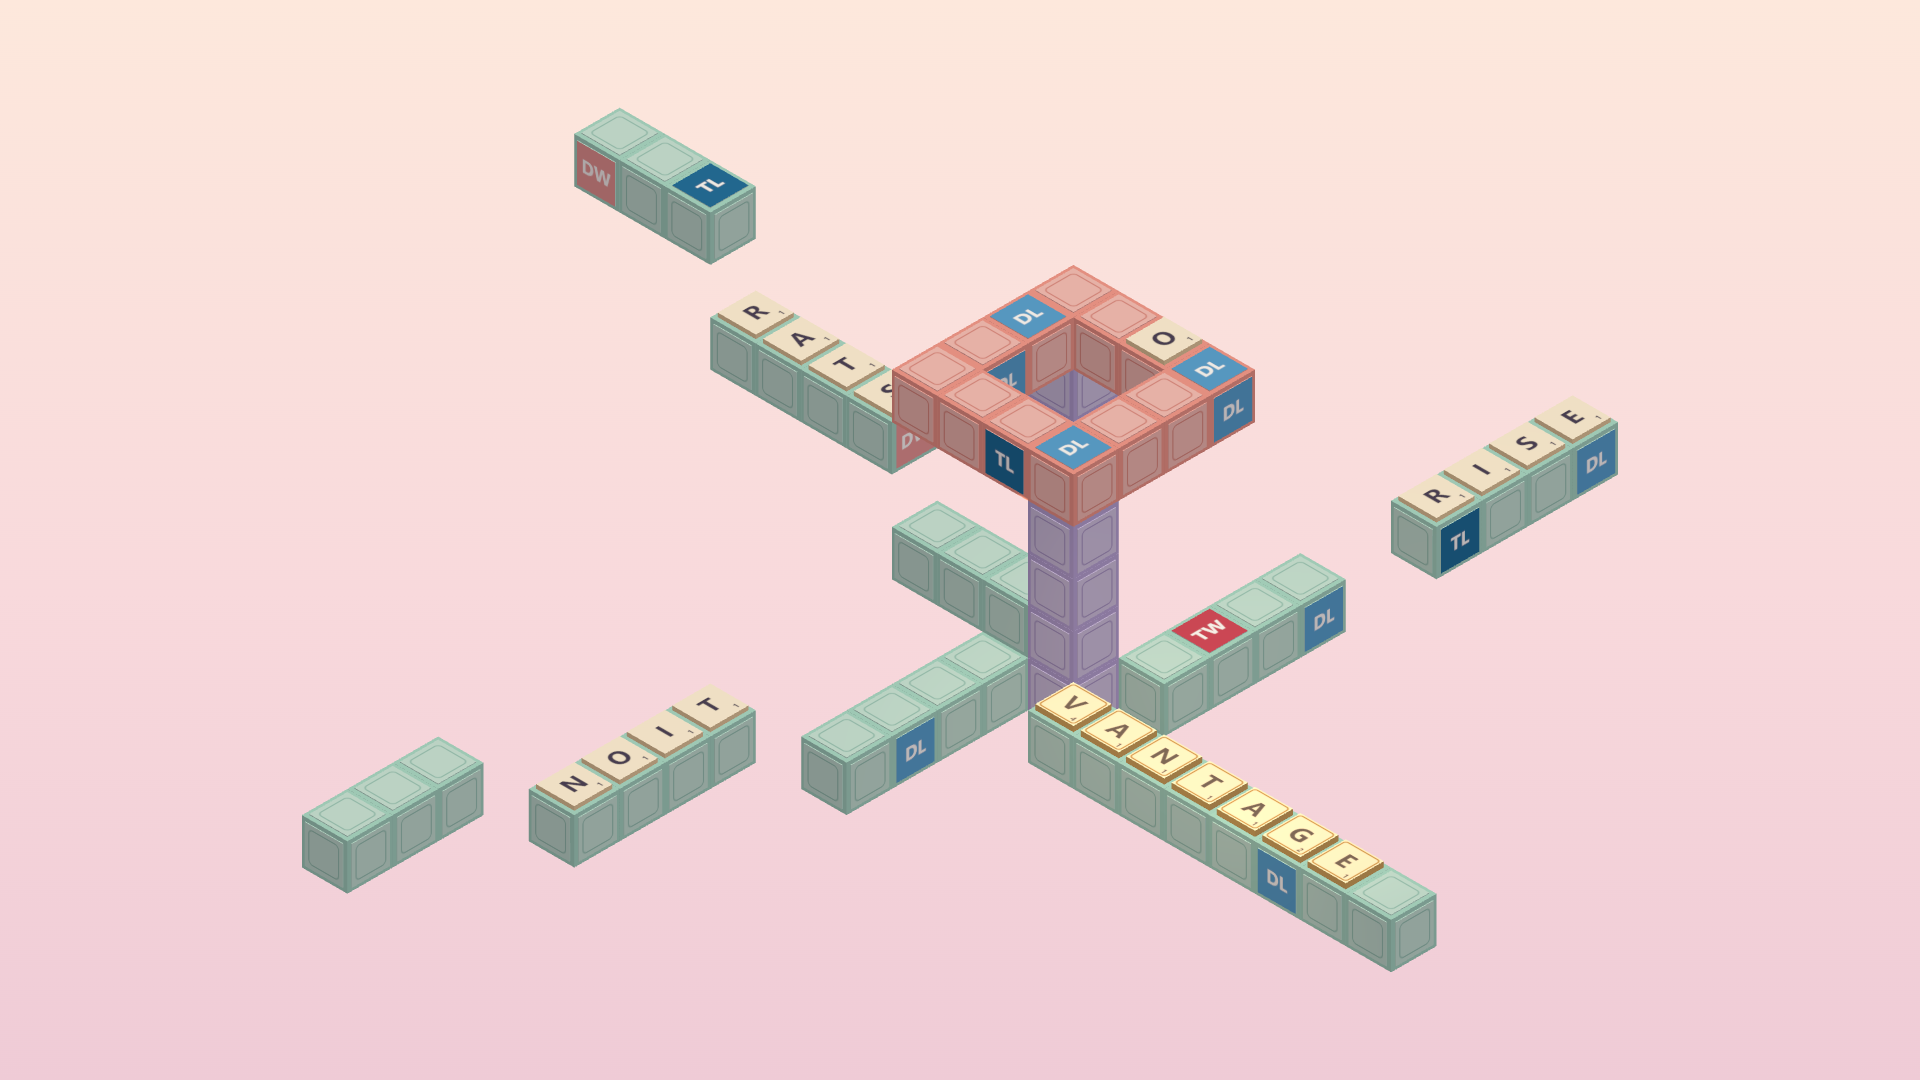
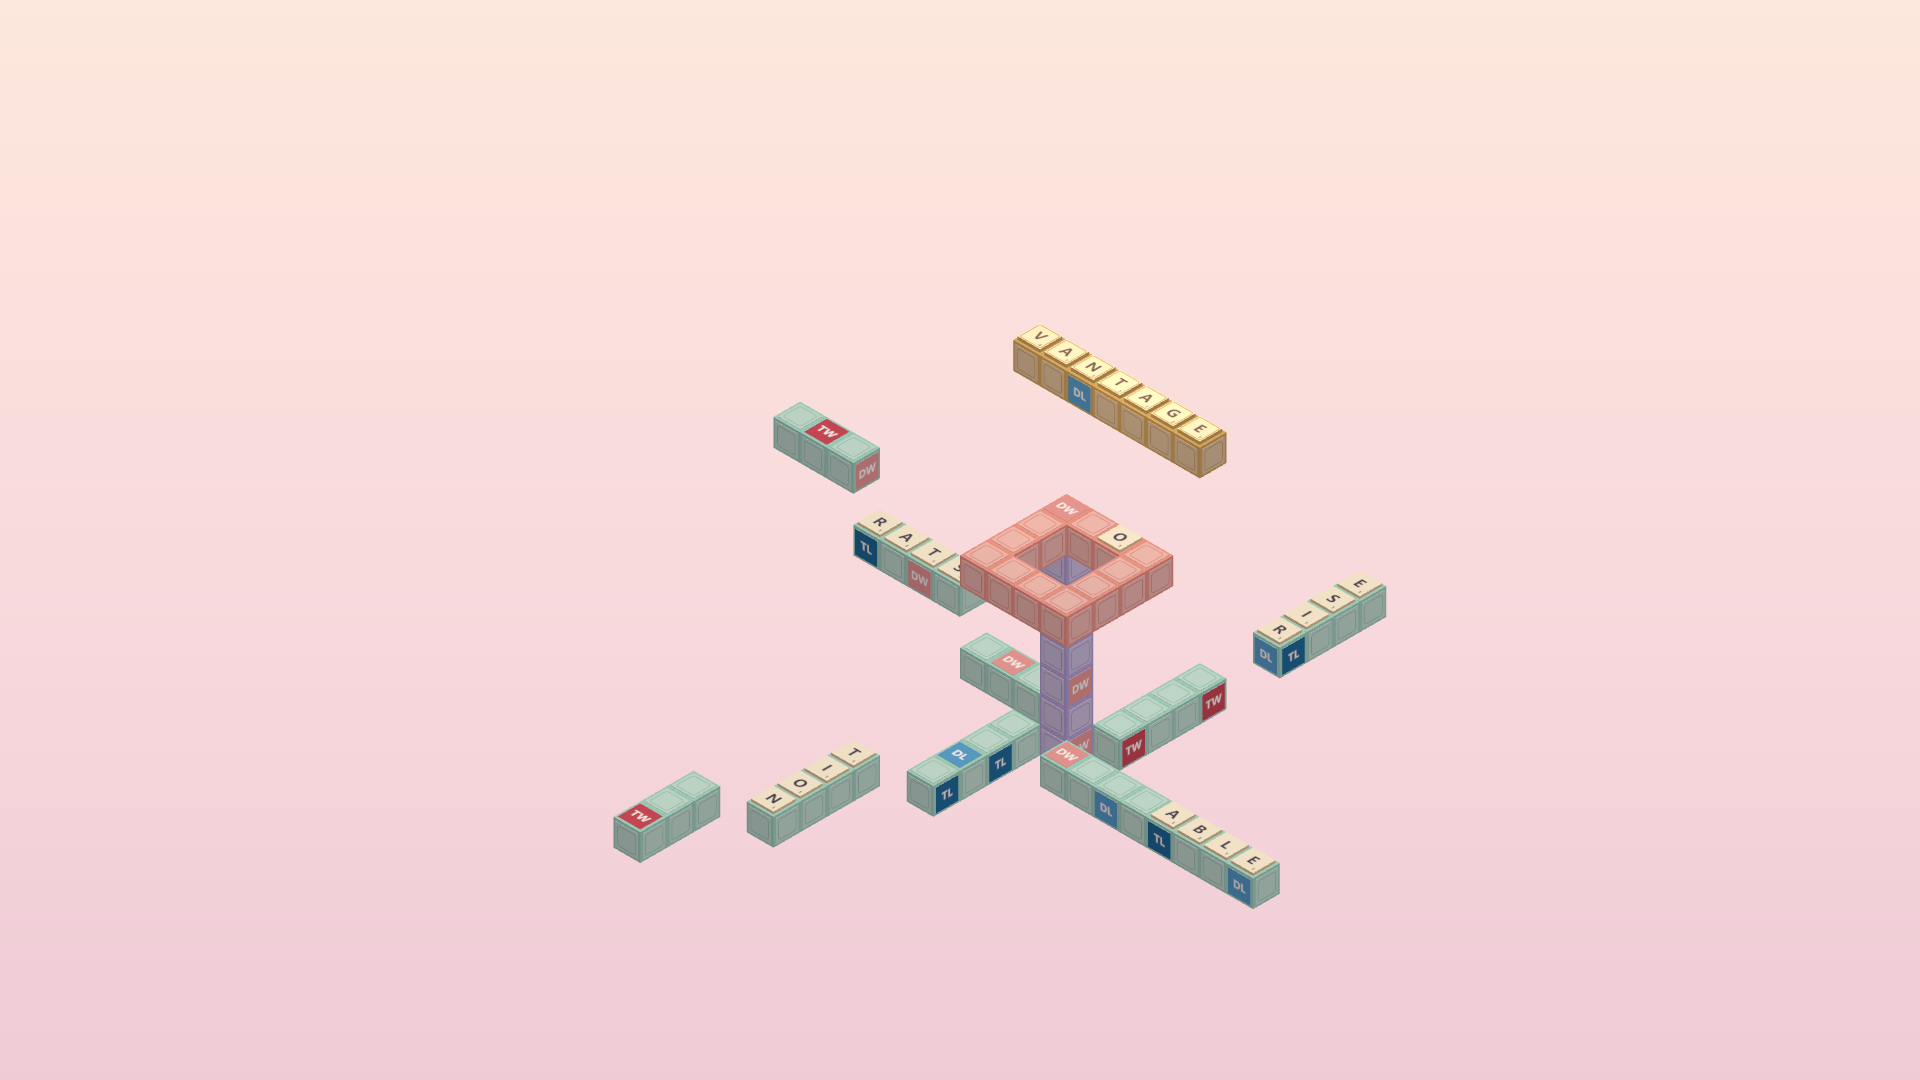
Add permanent VAN TAGE title above crown and remove thumbnail mode

Changed region(s): [[0.1562, 0.2444, 0.8438, 0.9167], [0.2812, 0.0917, 0.4062, 0.2444]]

diff --git a/src/main.js b/src/main.js
@@ -23,7 +23,7 @@ import {
 } from './game.js';
 import { createHud } from './hud.js';
 import { createLab } from './lab.js';
-import { MONUMENT, THUMBNAIL_WORD, VIEWS } from './level.js';
+import { MONUMENT, VIEWS } from './level.js';
 import { placementDirection, placementOptions } from './placement.js';
 import { BoardView } from './scene.js';
 
@@ -72,17 +72,17 @@ fill.position.set(-6, -12, -8);
 scene.add(fill);
 
 const view = new BoardView(board, scene, game.bonuses);
-for (const [key, letter] of game.letters) view.setTile(key, letter, 'fixed');
+const titleSlots = new Set(MONUMENT.words.filter((word) => word.featured).flatMap((word) =>
+  [...word.text].map((_, i) => slotKey(word.start.map((v, axis) => v + word.dir[axis] * i), word.face)),
+));
+for (const [key, letter] of game.letters) view.setTile(key, letter, titleSlots.has(key) ? 'featured' : 'fixed');
 
-const thumbnailSlots = THUMBNAIL_WORD.cells.map((cell) => slotKey(cell, THUMBNAIL_WORD.face));
-const thumbnailBlankSlots = THUMBNAIL_WORD.blankCells.map((cell) => slotKey(cell, THUMBNAIL_WORD.face));
 const spotlightTarget = new THREE.Object3D();
-for (const key of thumbnailSlots) spotlightTarget.position.add(new THREE.Vector3(...board.slots.get(key).center));
-spotlightTarget.position.divideScalar(thumbnailSlots.length);
+for (const key of titleSlots) spotlightTarget.position.add(new THREE.Vector3(...board.slots.get(key).center));
+spotlightTarget.position.divideScalar(titleSlots.size);
 const spotlight = new THREE.SpotLight('#ffe7b4', 65, 35, Math.PI / 5, 0.85);
 spotlight.position.copy(spotlightTarget.position).add(new THREE.Vector3(0, 8, 5));
 spotlight.target = spotlightTarget;
-spotlight.visible = false;
 scene.add(spotlight, spotlightTarget);
 
 const bounds = new THREE.Box3();
@@ -117,7 +117,6 @@ function resize() {
   camera.bottom = -height / 2;
   camera.updateProjectionMatrix();
   renderer.setSize(window.innerWidth, window.innerHeight);
-  if (document.body.classList.contains('thumbnail-mode')) frameThumbnail(viewDir());
 }
 resize();
 window.addEventListener('resize', resize);
@@ -146,14 +145,12 @@ let selection = null; // { chain, cursor, clicked } while placing
 let lockedDir = null;
 let snap = null;
 let revealing = false; // showing how far apart joined strips really are
-let thumbnailMode = false;
-let thumbnailReturn = null;
 let message = null;
 let messageTimer;
 // The camera is moving, a screen is over the monument or words are being
 // checked.
 const busy = () =>
-  Boolean(snap || revealing) || thumbnailMode || labOpen || mode === 'intro' || mode === 'chamber' || mode === 'checking';
+  Boolean(snap || revealing) || labOpen || mode === 'intro' || mode === 'chamber' || mode === 'checking';
 const canLook = () => !busy() && (mode === 'explore' || mode === 'over');
 
 const hud = createHud({
@@ -199,19 +196,12 @@ let wasJoined = false;
 function refresh() {
   if (mode !== 'placing' && mode !== 'checking' && !revealing) current = chainsForView(board, viewDir(), undefined, true);
   view.orientLetters(camera);
-  if (thumbnailMode) {
-    // Keep the name's letters on one baseline as the two strips line up.
-    for (const key of thumbnailSlots) view.orient(view.tiles.get(key), new THREE.Vector3(1, 0, 0));
-  }
   // A chime as strips come together.
   const joinedNow = current.chains.some(isJoined);
   if (joinedNow && !wasJoined && (mode === 'explore' || mode === 'over') && !revealing) sound.snap();
   wasJoined = joinedNow;
 
-  const highlights = new Map();
-  if (thumbnailMode) {
-    for (const key of thumbnailSlots) highlights.set(key, 'spotlight');
-  }
+  const highlights = new Map([...titleSlots].map((key) => [key, 'spotlight']));
   if (selection) {
     for (const key of selection.chain.slots) highlights.set(key, 'selected');
     const cursor = selection.chain.slots[selection.cursor];
@@ -309,7 +299,6 @@ function renderHud() {
     message,
   });
   document.getElementById('lab-open').disabled = !canLook();
-  document.getElementById('thumbnail').disabled = !canLook();
 }
 
 // The compass: every view direction seen from above, the centre straight down
@@ -375,7 +364,7 @@ function stepSnap(now) {
   if (t === 1) {
     const { then } = snap;
     snap = null;
-    controls.enabled = thumbnailMode || ((mode === 'explore' || mode === 'over') && !revealing);
+    controls.enabled = (mode === 'explore' || mode === 'over') && !revealing;
     then?.();
   }
   refresh();
@@ -394,66 +383,8 @@ controls.addEventListener('change', () => {
   if (!snap) refresh();
 });
 controls.addEventListener('end', () => {
-  if (dragged && (thumbnailMode || mode === 'explore')) snapIfNear();
+  if (dragged && mode === 'explore') snapIfNear();
 });
-
-function frameThumbnail(dir = THUMBNAIL_WORD.view) {
-  const { right, up } = screenBasis(normalize(dir));
-  const rightVec = new THREE.Vector3(...right);
-  const upVec = new THREE.Vector3(...up);
-  const points = board.cells.flatMap((cell) => [-0.6, 0.6].flatMap((x) =>
-    [-0.6, 0.6].flatMap((y) => [-0.6, 0.6].map((z) => new THREE.Vector3(...cell).add(new THREE.Vector3(x, y, z)))),
-  ));
-  const horizontal = points.map((point) => point.dot(rightVec));
-  const vertical = points.map((point) => point.dot(upVec));
-  const left = Math.min(...horizontal), rightEdge = Math.max(...horizontal);
-  const bottom = Math.min(...vertical), top = Math.max(...vertical);
-  const offset = camera.position.clone().sub(controls.target);
-  controls.target.copy(target)
-    .addScaledVector(rightVec, (left + rightEdge) / 2 - target.dot(rightVec))
-    .addScaledVector(upVec, (bottom + top) / 2 - target.dot(upVec));
-  camera.position.copy(controls.target).add(offset);
-  camera.zoom = 0.82 * Math.min((camera.right - camera.left) / (rightEdge - left), (camera.top - camera.bottom) / (top - bottom));
-  camera.updateProjectionMatrix();
-}
-
-function enterThumbnail() {
-  if (thumbnailMode || snap || labOpen || (mode !== 'intro' && !canLook())) return;
-  thumbnailReturn = { position: camera.position.clone(), target: controls.target.clone(), zoom: camera.zoom };
-  thumbnailMode = true;
-  THUMBNAIL_WORD.text.split('').forEach((letter, i) => view.setTile(thumbnailSlots[i], letter, 'featured'));
-  for (const key of thumbnailBlankSlots) view.setTile(key, '', 'empty');
-  spotlight.visible = true;
-  document.body.classList.add('thumbnail-mode');
-  document.getElementById('thumbnail-toolbar').hidden = false;
-  frameThumbnail();
-  animateTo(THUMBNAIL_WORD.view);
-}
-
-function exitThumbnail() {
-  if (!thumbnailMode) return;
-  thumbnailMode = false;
-  snap = null;
-  spotlight.visible = false;
-  for (const key of [...thumbnailSlots, ...thumbnailBlankSlots]) {
-    const letter = letterAt(game, key);
-    view.setTile(key, letter, letter ? 'fixed' : 'empty');
-  }
-  camera.position.copy(thumbnailReturn.position);
-  controls.target.copy(thumbnailReturn.target);
-  camera.zoom = thumbnailReturn.zoom;
-  camera.updateProjectionMatrix();
-  document.body.classList.remove('thumbnail-mode', 'clean-thumbnail');
-  document.getElementById('thumbnail-toolbar').hidden = true;
-  controls.enabled = mode === 'explore' || mode === 'over';
-  controls.update();
-  refresh();
-}
-
-document.getElementById('thumbnail').addEventListener('click', enterThumbnail);
-document.getElementById('intro-thumbnail').addEventListener('click', enterThumbnail);
-document.getElementById('thumbnail-exit').addEventListener('click', exitThumbnail);
-document.getElementById('thumbnail-align').addEventListener('click', () => thumbnailMode && !snap && animateTo(THUMBNAIL_WORD.view));
 
 // The Hyperbolic Chamber fills the rack: the better the score there, the
 // better the letters (each new tile is the best of score + 1 draws).
@@ -738,15 +669,7 @@ renderer.domElement.addEventListener('pointerup', (event) => {
 });
 
 window.addEventListener('keydown', (event) => {
-  if (event.ctrlKey || event.metaKey || event.altKey) return;
-  if (thumbnailMode) {
-    if (event.key === 'Escape') exitThumbnail();
-    else if (event.key.toLowerCase() === 'h') document.body.classList.toggle('clean-thumbnail');
-    else return;
-    event.preventDefault();
-    return;
-  }
-  if (busy()) return;
+  if (event.ctrlKey || event.metaKey || event.altKey || busy()) return;
   if (event.target.matches?.('input, textarea, select, [contenteditable="true"]')) return;
   // Enter still plays after clicking the word strip or rack; other buttons
   // keep their own Enter, and Space always presses the focused button.
@@ -869,7 +792,7 @@ renderer.setAnimationLoop((time) => {
   lastTime = time;
   // While another screen has the page, the monument behind it barely moves.
   if ((chamber.isOpen() || lab.isOpen()) && frame++ % 20) return;
-  if (mode === 'intro' && !labOpen && !thumbnailMode) {
+  if (mode === 'intro' && !labOpen) {
     // Orbit controls report the change, which refreshes the view.
     camera.position.sub(controls.target).applyAxisAngle(new THREE.Vector3(0, 1, 0), INTRO_SPIN * dt).add(controls.target);
     controls.update();
@@ -885,7 +808,6 @@ if (import.meta.env.DEV) {
     game,
     selection: () => selection,
     highlights: () => [...view.highlights.keys()],
-    thumbnail: () => thumbnailMode,
     slotOnScreen(key) {
       const point = new THREE.Vector3(...board.slots.get(key).center).project(camera);
       return { x: ((point.x + 1) / 2) * window.innerWidth, y: ((1 - point.y) / 2) * window.innerHeight };
@@ -893,10 +815,4 @@ if (import.meta.env.DEV) {
     mode: () => mode,
     lookFrom: (dir) => animateTo(dir),
   };
-}
-
-const pageOptions = new URLSearchParams(window.location.search);
-if (pageOptions.get('thumbnail') === '1') {
-  enterThumbnail();
-  document.body.classList.toggle('clean-thumbnail', pageOptions.get('clean') === '1');
 }

diff --git a/src/level.js b/src/level.js
@@ -71,14 +71,15 @@ function penroseCrown(origin, size, lifts = [0, 3, 2, 1]) {
 
 const CROWN = penroseCrown([0, 7, 0], 4);
 
-// Reuse the home arm for a photograph: VANT and AGE are physically separate,
-// but their seven existing top faces meet from the home vantage point.
-export const THUMBNAIL_WORD = {
-  text: 'VANTAGE',
+// Two small title strips sit above the crown. Their top faces spell VANTAGE
+// from the home view, using exactly three VAN blocks and four TAGE blocks.
+export const TITLE_WORD = {
   face: '+y',
   view: VIEWS.southEast,
-  cells: [[1, 0, 1], [2, 0, 1], [3, 0, 1], [4, 0, 1], [6, 1, 2], [7, 1, 2], [8, 1, 2]],
-  blankCells: [[9, 1, 2]], // hide the final E of ABLE while photographing
+  parts: [
+    { start: [-1, 12, 0], dir: [1, 0, 0], text: 'VAN' },
+    { start: [3, 13, 1], dir: [1, 0, 0], text: 'TAGE' },
+  ],
 };
 
 // The monument: a lavender tower in the middle, the Penrose crown on top,
@@ -90,6 +91,7 @@ export const MONUMENT = {
   blocks: [
     { start: [0, 0, 0], dir: [0, 1, 0], length: 7, color: LAVENDER },
     ...CROWN.blocks,
+    ...TITLE_WORD.parts.map(({ start, dir, text }) => ({ start, dir, length: text.length, color: '#d5ab63' })),
     ...arm([1, 0, 1], [1, 0, 0], VIEWS.southEast),
     ...arm([1, 0, -1], [0, 0, -1], VIEWS.northEast),
     ...arm([-1, 0, -1], [-1, 0, 0], VIEWS.northWest),
@@ -105,6 +107,7 @@ export const MONUMENT = {
   // reads from the plaza out along its arm, so the far ends invite words that
   // finish there: LOVE...ABLE, ...RISE, ...STAR, ...TION.
   words: [
+    ...TITLE_WORD.parts.map((part) => ({ ...part, face: TITLE_WORD.face, featured: true })),
     { start: [6, 1, 2], dir: [1, 0, 0], face: '+y', text: 'ABLE' },
     { start: [2, 1, -6], dir: [0, 0, -1], face: '+y', text: 'RISE' },
     { start: [-6, 1, -2], dir: [-1, 0, 0], face: '+y', text: 'STAR' },

diff --git a/test/title.test.js b/test/title.test.js
@@ -1,0 +1,32 @@
+import assert from 'node:assert/strict';
+import { test } from 'node:test';
+import { buildBoard, chainsForView, isJoined, slotKey, slotVisible } from '../src/board.js';
+import { createGame } from '../src/game.js';
+import { normalize } from '../src/geometry.js';
+import { MONUMENT, TITLE_WORD } from '../src/level.js';
+
+test('VAN and TAGE use exactly seven new blocks above the crown during normal play', () => {
+  const board = buildBoard(MONUMENT);
+  const game = createGame(MONUMENT, board);
+  const dir = normalize(TITLE_WORD.view);
+  const cells = TITLE_WORD.parts.flatMap(({ start, dir, text }) =>
+    [...text].map((_, i) => start.map((v, axis) => v + dir[axis] * i)),
+  );
+  const keys = cells.map((cell) => slotKey(cell, TITLE_WORD.face));
+  assert.equal(board.cells.length, 64);
+  assert.deepEqual(TITLE_WORD.parts.map((part) => part.text), ['VAN', 'TAGE']);
+  assert.deepEqual(TITLE_WORD.parts.map((part) => part.text.length), [3, 4]);
+  const titleCells = new Set(cells.map((cell) => cell.join(',')));
+  const crownHeight = Math.max(...board.cells.filter((cell) => !titleCells.has(cell.join(','))).map((cell) => cell[1]));
+  assert.ok(cells.every((cell) => cell[1] > crownHeight));
+  const chain = chainsForView(board, dir, undefined, true).chains.find((chain) =>
+    isJoined(chain) && keys.every((key) => chain.slots.includes(key)),
+  );
+  assert.ok(chain);
+  assert.deepEqual(chain.slots, keys);
+  assert.equal(new Set(chain.slotLines).size, 2);
+  assert.equal(keys.map((key) => game.letters.get(key)).join(''), 'VANTAGE');
+  assert.ok(keys.every((key) => slotVisible(board, key, dir)));
+  assert.equal(game.letters.get(slotKey([6, 1, 2], '+y')), 'A');
+  assert.equal(game.letters.has(slotKey([1, 0, 1], '+y')), false);
+});

diff --git a/index.html b/index.html
@@ -16,7 +16,6 @@
         <button id="iso" type="button">Isometric view</button>
         <button id="reveal" type="button" disabled>Reveal the trick</button>
         <button id="lab-open" type="button" title="Walk freely in hyperbolic space">Hyperbolic Lab</button>
-        <button id="thumbnail" type="button">Thumbnail view</button>
       </div>
     </header>
 
@@ -79,7 +78,6 @@
         <div class="intro-actions">
           <button id="intro-play" type="button" class="primary">Play</button>
           <button id="intro-lab" type="button">Explore the Hyperbolic Lab</button>
-          <button id="intro-thumbnail" type="button">Thumbnail view</button>
         </div>
         <p class="intro-foot">Best with sound · About 10 minutes · Words checked with Merriam-Webster's Scrabble dictionary</p>
       </div>
@@ -156,11 +154,6 @@
       </div>
     </section>
 
-    <div id="thumbnail-toolbar" hidden role="toolbar" aria-label="Thumbnail controls">
-      <span>Drag to separate VANTAGE · Press H to hide controls</span>
-      <button id="thumbnail-align" type="button">Join the word</button>
-      <button id="thumbnail-exit" type="button">Back <kbd>Esc</kbd></button>
-    </div>
     <script type="module" src="/src/main.js"></script>
   </body>
 </html>

diff --git a/src/scene.js b/src/scene.js
@@ -164,7 +164,7 @@ export class BoardView {
     tile.mesh.position.copy(vec(tile.slot.center)).addScaledVector(normal, height / 2);
   }
 
-  // Spotlight is reserved for the thumbnail; playable lines glow after a click.
+  // The permanent title is spotlighted; other playable lines glow after a click.
   setHighlights(highlights) {
     this.highlights = highlights;
     for (const [key, tile] of this.tiles) {
@@ -178,6 +178,11 @@ export class BoardView {
     const normal = new THREE.Vector3();
     const letterUp = new THREE.Vector3();
     for (const tile of this.tiles.values()) {
+      if (tile.style === 'featured') {
+        // Title letters follow their shared strip axis as VAN meets TAGE.
+        this.orient(tile, vec(tile.slot.axes[0]));
+        continue;
+      }
       normal.set(...tile.slot.normal);
       const score = (right) => letterUp.crossVectors(normal, right).dot(up);
       let best = tile.right;

diff --git a/src/style.css b/src/style.css
@@ -28,39 +28,6 @@ canvas {
   touch-action: none;
 }
 
-body.thumbnail-mode #title,
-body.thumbnail-mode #stats,
-body.thumbnail-mode #status,
-body.thumbnail-mode #tray,
-body.thumbnail-mode #compass,
-body.thumbnail-mode #intro,
-body.thumbnail-mode #summary {
-  display: none;
-}
-
-#thumbnail-toolbar {
-  position: fixed;
-  bottom: 20px;
-  left: 50%;
-  transform: translateX(-50%);
-  display: flex;
-  align-items: center;
-  justify-content: center;
-  flex-wrap: wrap;
-  gap: 10px;
-  width: max-content;
-  max-width: calc(100vw - 48px);
-  padding: 10px 14px;
-  border: 1px solid var(--line);
-  border-radius: 12px;
-  background: var(--panel);
-  font-size: 12px;
-}
-
-body.clean-thumbnail #thumbnail-toolbar {
-  display: none;
-}
-
 button {
   font: inherit;
   font-size: 13px;

diff --git a/test/board.test.js b/test/board.test.js
@@ -83,7 +83,7 @@ test('a new player can write TABLE across the home-view join', () => {
 });
 
 test('six added blocks form two playable three-surface extensions', () => {
-  assert.equal(board.cells.length, 57);
+  assert.equal(board.cells.length, 64);
   for (const [view, ending, indexes, text, word] of [
     [VIEWS.northWest, 'STAR', [8], 'S', 'STARS'],
     [VIEWS.southWest, 'TION', [2, 3, 8], 'ACS', 'ACTIONS'],

diff --git a/README.md b/README.md
@@ -158,9 +158,7 @@ npm run build     # production build in dist/
 
 ### Taking a thumbnail
 
-Press **Thumbnail view** on the title screen or between turns. VANTAGE is spotlighted across seven existing tiles: VANT and AGE sit on separate strips and join from the home viewpoint. Drag to separate them and press **Join the word** to bring them together. Press **H** to hide the controls for a clean screenshot, and **Esc** to return. The playable board is restored when you leave.
-
-Open `/?thumbnail=1&clean=1` to go straight to the clean thumbnail view. No blocks are added.
+VANTAGE is permanently spotlighted above the crown during normal play. One three-block strip reads VAN and one four-block strip reads TAGE; from **Isometric view** they form the complete title. Use that normal game view for a project thumbnail.
 
 ## Where things live
 
